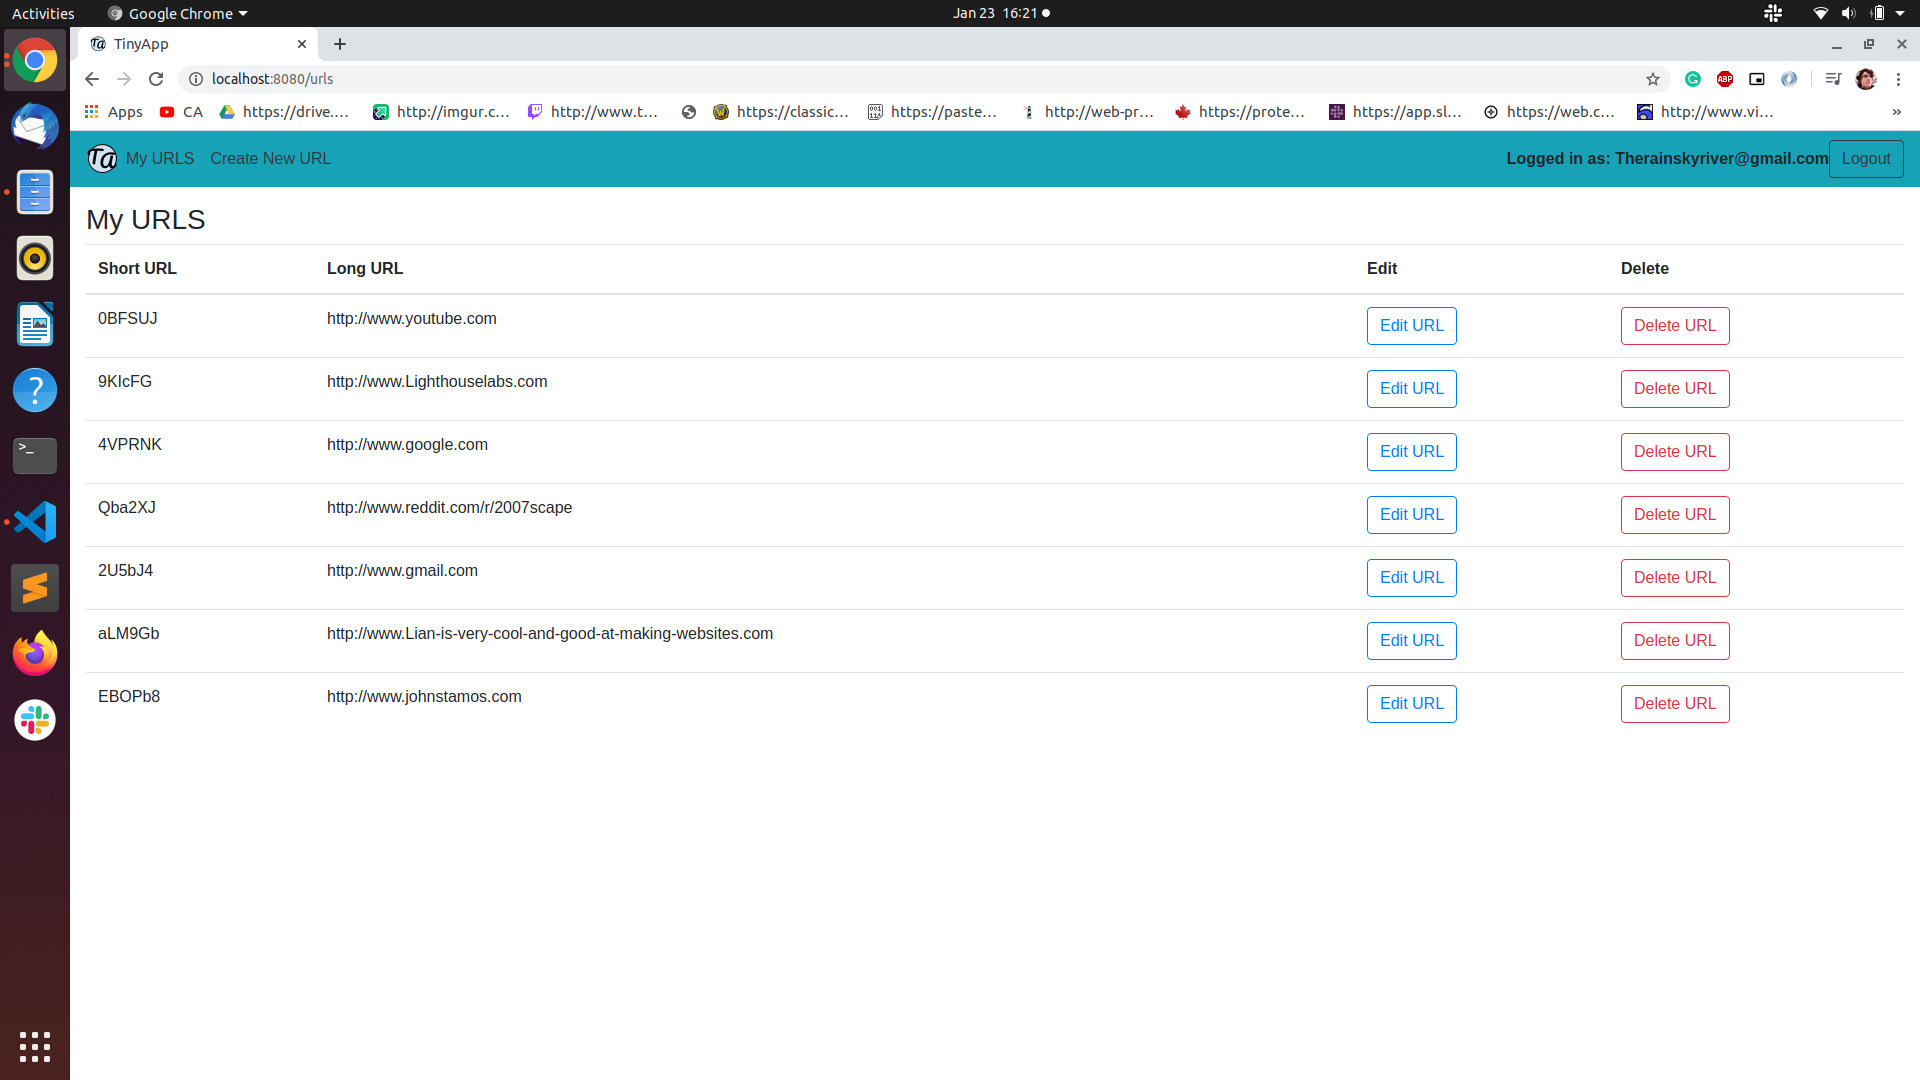
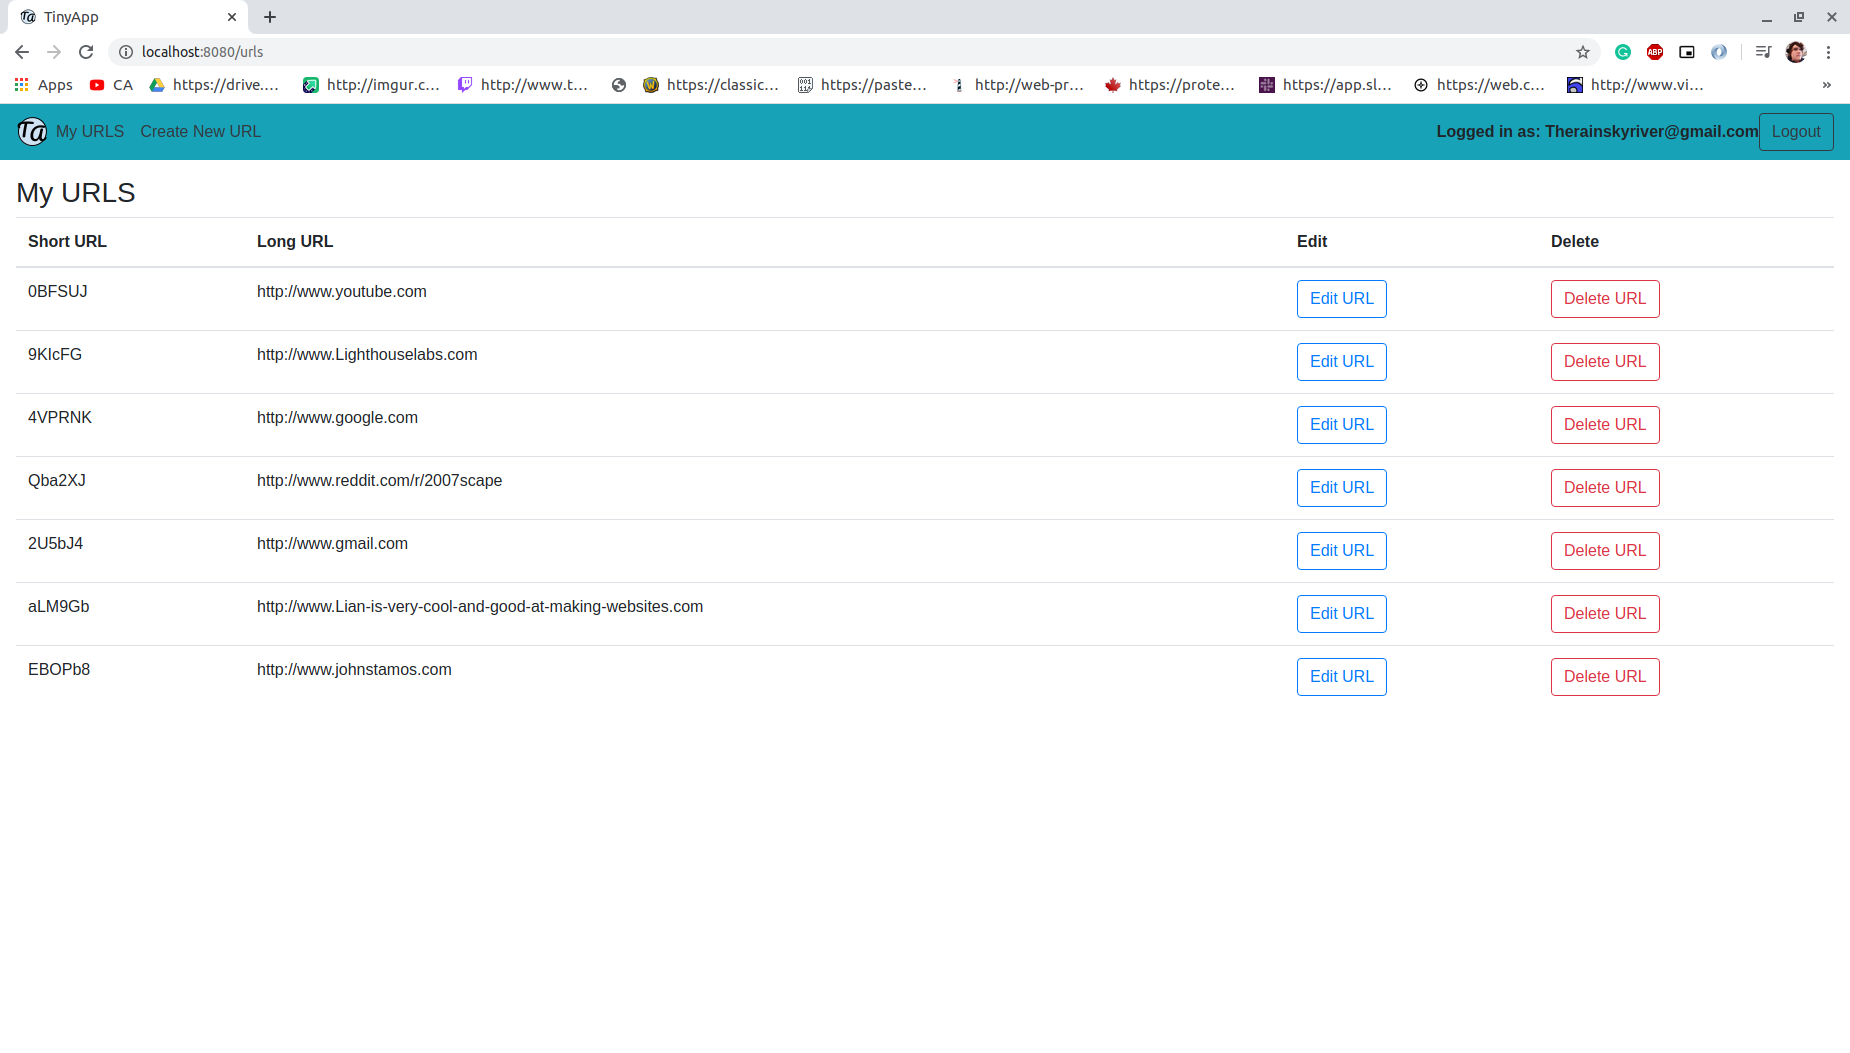
Added screenshots to README

diff --git a/README.md b/README.md
@@ -2,6 +2,10 @@
 
 ### A simple tinyurl clone that uses an express server with bcrypt, cookie-session, and body-parser.
 
+## Final Product
+
+!["Screenshot of splash page"](https://github.com/Rainskyriver/tinyapp/blob/master/public/splash-page.png?raw=true)
+!["Screenshot of URLs page"](https://github.com/Rainskyriver/tinyapp/blob/master/public/urls-index.png?raw=true)
 
 ### Dependencies
 
